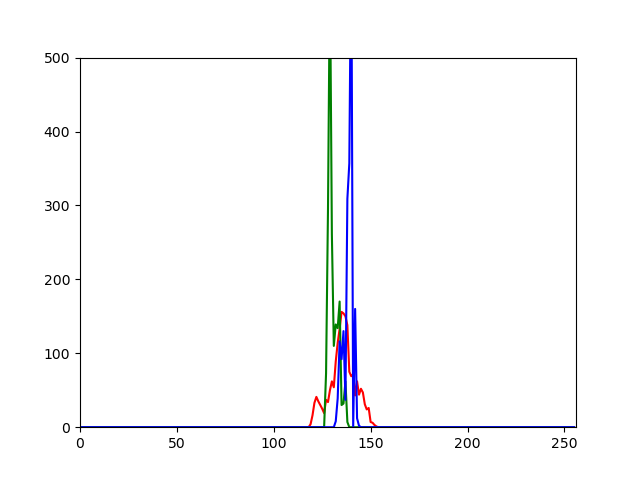
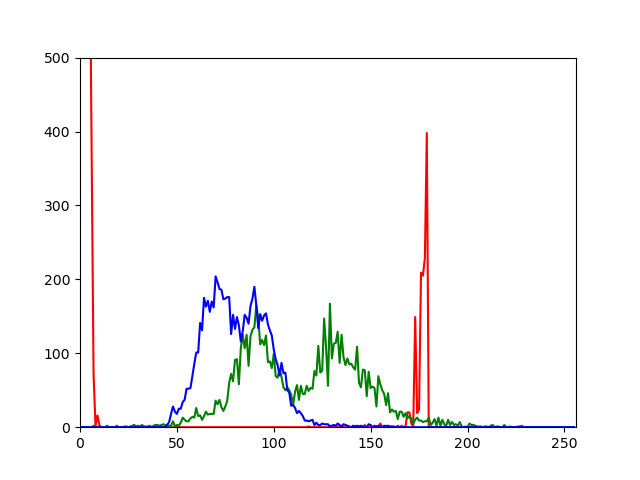
add in new histogram backprojection, should be straightforward in using, and can now detect convex defects

Changed region(s): [[0.2188, 0.125, 0.75, 0.9062], [0.125, 0.125, 0.1562, 0.9062]]

diff --git a/test.py b/test.py
@@ -1,4 +1,6 @@
 import cv2
+import pickle
+import numpy as np
 import os
 
 # Argument represents camera number
@@ -16,6 +18,11 @@ min_hsv = [60, 87, 119]
 
 font = cv2.FONT_HERSHEY_SIMPLEX
 
+def convolve(B, r):
+    D = cv2.getStructuringElement(cv2.MORPH_ELLIPSE,(r,r))
+    cv2.filter2D(B, -1, D, B)
+    return B
+
 while True:
     ret, frame = cap.read()
 
@@ -27,29 +34,55 @@ while True:
     cv2.putText(frame, 'Region Of Interest', (10, 70), font, 1, (255, 255, 255), 2, cv2.LINE_AA)
 
     hsv_roi = cv2.cvtColor(roi, cv2.COLOR_BGR2HSV)
-    skin_mask = cv2.inRange(hsv_roi, tuple(min_hsv), tuple(max_hsv))
 
-    # Testing out blurring and thresholding to remove noise
-    blur_mask = cv2.blur(skin_mask, (2, 2))
-    ret, thresh_mask = cv2.threshold(blur_mask, 0, 255, cv2.THRESH_BINARY)
+    #Load in model histogram
+    model_file = open("model_hist.pkl", 'rb')
+    model_hist = pickle.load(model_file)
+    model_file.close()
 
-    contours, val1 = cv2.findContours(thresh_mask, cv2.RETR_TREE, cv2.CHAIN_APPROX_NONE)
+    # Testing out backprojection
+    new_img = cv2.calcBackProject([hsv_roi], channels=[0,1], hist= model_hist, ranges=[0,180,0,256], scale=1)
+    new_img = convolve(new_img, r = 5)
+    
+    # Perform image erosion
+    kernel = np.ones((2, 2), np.uint8)
+    new_img = cv2.erode(new_img, kernel)
+    blur_mask = cv2.blur(new_img, (2, 2))
+    _, new_img_thresh = cv2.threshold(blur_mask, 0, 255, cv2.THRESH_BINARY)
+
+    contours, val1 = cv2.findContours(new_img_thresh, cv2.RETR_TREE, cv2.CHAIN_APPROX_NONE)
     if len(contours) == 0:
         continue
 
     max_contour = max(contours, key = cv2.contourArea)
-    return_hull = cv2.convexHull(max_contour)
-    hull = [cv2.convexHull(contour) for contour in contours]
+    return_hull = cv2.convexHull(max_contour, returnPoints = False)
+    
+    hulls = [cv2.convexHull(contour) for contour in contours]
+    hull_indices = [cv2.convexHull(contour, returnPoints = False) for contour in contours]
 
-    for i in range(len(contours)):
-        cv2.drawContours(roi, contours, i, (0, 255, 0))
-        cv2.drawContours(roi, hull, i, (0, 255, 0))
+    max_hull = max(hulls, key = cv2.contourArea)
+    try:   
+        defects = cv2.convexityDefects(max_contour, return_hull)
+    except:
+        defects = None
+        print("Stupid Monotonous Points aren't showing due to self intersections. FUCK")
 
+    cv2.drawContours(roi, max_contour, -1, (0, 255, 0))
+    cv2.drawContours(roi, [max_hull], -1, (255, 0, 0))
+
+    # Code adapted from: https://theailearner.com/2020/11/09/convexity-defects-opencv/
+    if defects is not None:
+        for i in range(defects.shape[0]):
+            _, _, f, _ = defects[i, 0]
+            defect_point = tuple(max_contour[f][0])
+            cv2.circle(roi, defect_point, 5, [0, 0, 255], -1)
+        
+        # Use these convexDefects to determine the number of fingers
+        print(defects.shape)
 
     cv2.imshow("roi", roi)
     cv2.imshow("frame", frame)
-    cv2.imshow("skin mask", skin_mask)
-    cv2.imshow("Blurred & Thresholded Mask", thresh_mask)
+    cv2.imshow("BackProj Mask", new_img_thresh)
     
     if cv2.waitKey(1) & 0xFF == ord('q'):
         break

diff --git a/test_colors.py b/test_colors.py
@@ -16,11 +16,11 @@ OFFSET = 3
 while True:
     ret, frame = cap.read()
 
-    roi_lower_X = 150
-    roi_upper_X = 200
+    roi_lower_X = 100
+    roi_upper_X = 150
 
-    roi_lower_Y = 150
-    roi_upper_Y = 200
+    roi_lower_Y = 100
+    roi_upper_Y = 280
 
     roi = frame[roi_lower_Y + OFFSET: roi_upper_Y - OFFSET, roi_lower_X + OFFSET: roi_upper_X - OFFSET]
     cv2.rectangle(frame, (roi_lower_X, roi_lower_Y), (roi_upper_X, roi_upper_Y), (0, 255, 0), 1)
@@ -35,14 +35,14 @@ while True:
     if cv2.waitKey(1) & 0xFF == ord('t'):
         
         # Generate Histogram and Save to Pickle File
-        roi_YCB = cv2.cvtColor(roi, cv2.COLOR_BGR2YCR_CB)
+        roi_hsv = cv2.cvtColor(roi, cv2.COLOR_BGR2HSV)
 
-        histogram = cv2.calcHist([roi_YCB], channels=[0, 1], mask=None, histSize = [80, 256], ranges = [0, 180, 0, 256])
+        histogram = cv2.calcHist([roi_hsv], channels=[0, 1], mask=None, histSize = [80, 256], ranges = [0, 180, 0, 256])
         print(type(histogram))
 
         colors = ("r", "g", "b")
         for i, color in enumerate(colors):
-            hist = cv2.calcHist([roi_YCB],[i],None,[256],[0,256])
+            hist = cv2.calcHist([roi_hsv],[i],None,[256],[0,256])
             plt.plot(hist ,color = color)
             plt.xlim([0,256])
             plt.ylim([0,500])

diff --git a/test_new.py b/test_new.py
@@ -7,18 +7,18 @@ def convolve(B, r):
     cv2.filter2D(B, -1, D, B)
     return B
 
-test_img = cv2.imread("hand1.jpg", cv2.IMREAD_COLOR)
-YCRCB_img = cv2.cvtColor(test_img, cv2.COLOR_BGR2YCR_CB)
+test_img = cv2.imread("hand1_day.jpg", cv2.IMREAD_COLOR)
+hsv_img = cv2.cvtColor(test_img, cv2.COLOR_BGR2HSV)
 
 #Load in model histogram
 model_file = open("model_hist.pkl", 'rb')
 model_hist = pickle.load(model_file)
 model_file.close()
 
-new_img = cv2.calcBackProject([YCRCB_img], channels=[0,1], hist= model_hist, ranges=[0,180,0,256], scale=1)
+new_img = cv2.calcBackProject([hsv_img], channels=[0,1], hist= model_hist, ranges=[0,180,0,256], scale=1)
 
 new_img = convolve(new_img, r = 3)
-_, new_img_thresh = cv2.threshold(new_img, 127, 255, cv2.THRESH_BINARY)
+_, new_img_thresh = cv2.threshold(new_img, 10, 255, cv2.THRESH_BINARY)
 
 cv2.imshow("hand_image", new_img_thresh)
 cv2.waitKey(0)
